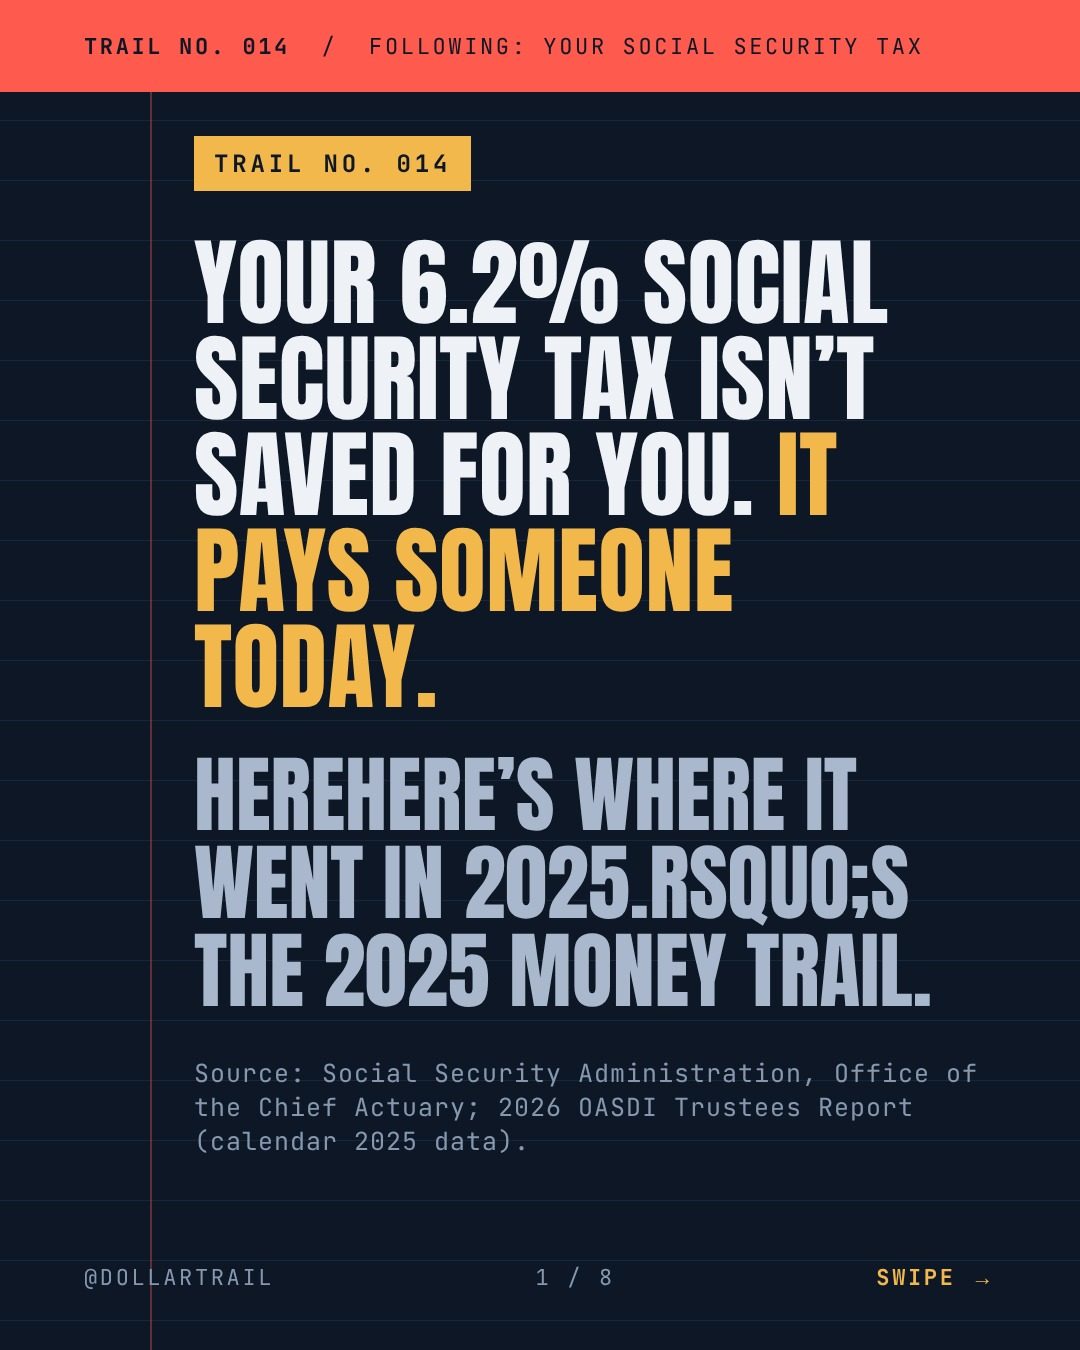
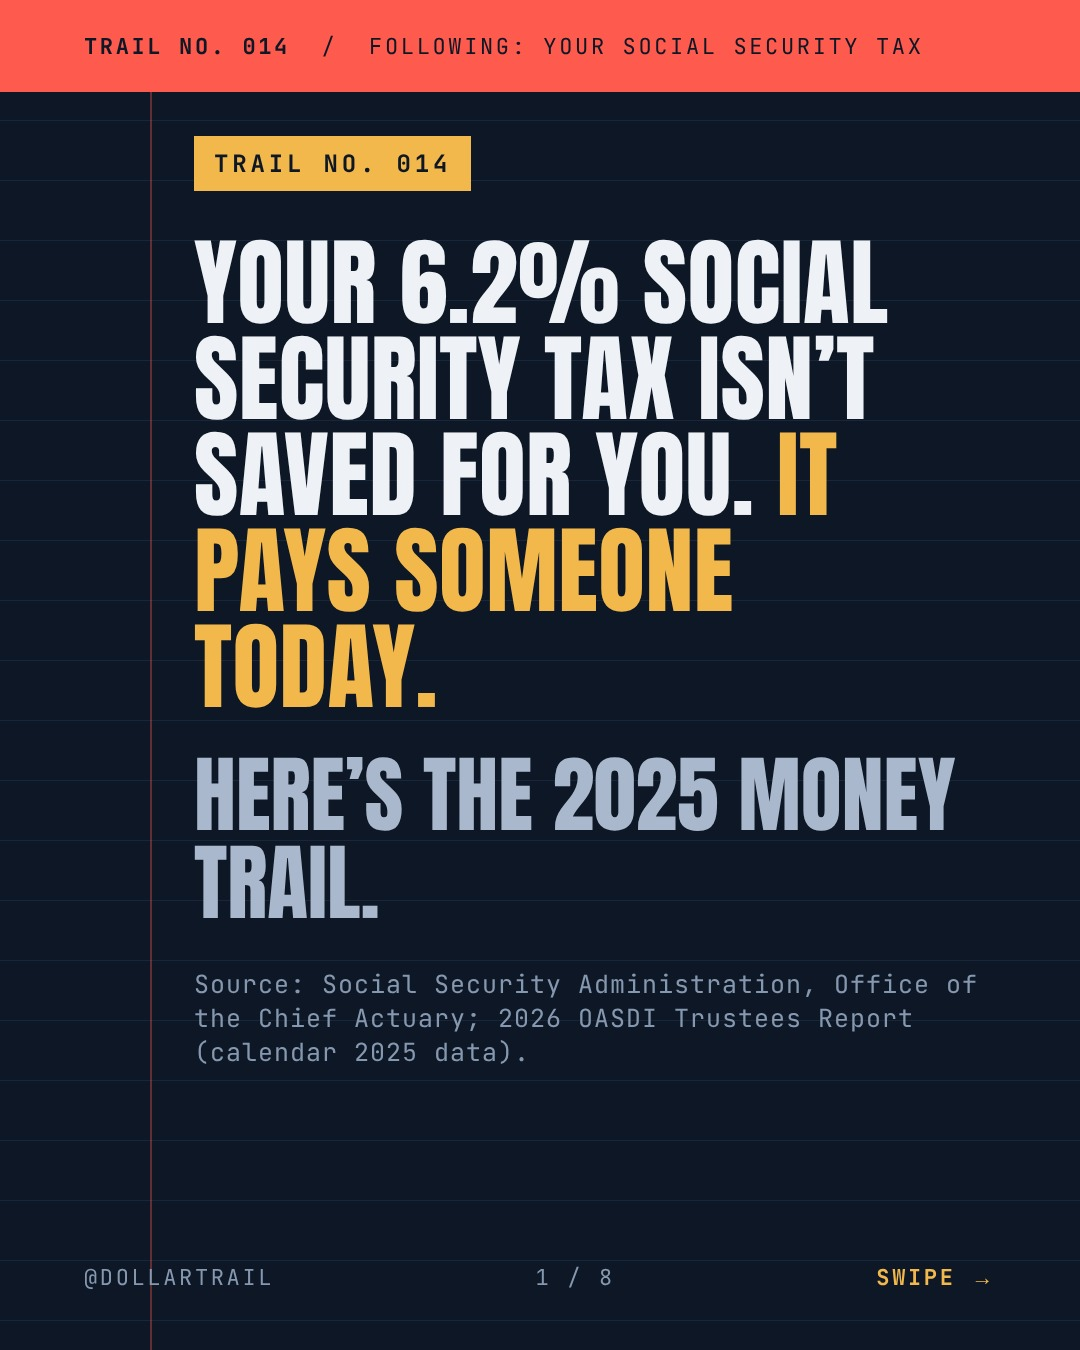
fix: dollartrail 014 slide 1 garbled subtitle
Claude-Session: https://claude.ai/code/session_01C212JV3oQncZ6AVJ6YC5Mt

Changed region(s): [[0.1833, 0.56, 0.8861, 0.8711]]

diff --git a/posts/dollartrail/014-social-security-tax.py b/posts/dollartrail/014-social-security-tax.py
@@ -18,7 +18,7 @@ Did you know the tax stops at $184,500 of earnings?
 #socialsecurity #taxes #paycheck #retirement #personalfinance #dollartrail"""
 
 SLIDES = [
-    '<div class=tag>Trail No. 014</div>\n<div class=hook style="font-size:96px">Your 6.2% Social Security tax isn&rsquo;t saved for you. <em>It pays someone today.</em></div>\n<div class=hook2>HereHere&rsquo;s where it went in 2025.rsquo;s the 2025 money trail.</div>\n<div class=mini style="margin-top:40px">Source: Social Security Administration, Office of the Chief Actuary; 2026 OASDI Trustees Report (calendar 2025 data).</div>',
+    '<div class=tag>Trail No. 014</div>\n<div class=hook style="font-size:96px">Your 6.2% Social Security tax isn&rsquo;t saved for you. <em>It pays someone today.</em></div>\n<div class=hook2>Here&rsquo;s the 2025 money trail.</div>\n<div class=mini style="margin-top:40px">Source: Social Security Administration, Office of the Chief Actuary; 2026 OASDI Trustees Report (calendar 2025 data).</div>',
     stack([(91, R, "PAYROLL TAXES"), (5, BL, ""), (4, Y, "")],
           [("Payroll taxes", "$1,323B", R), ("Interest", "$69B", BL), ("Tax on benefits", "$58B", Y)],
           "Social Security (OASDI) income, calendar 2025: $1,449B total. Shares: 91% / 5% / 4%. Parts don't add exactly due to SSA rounding.",
